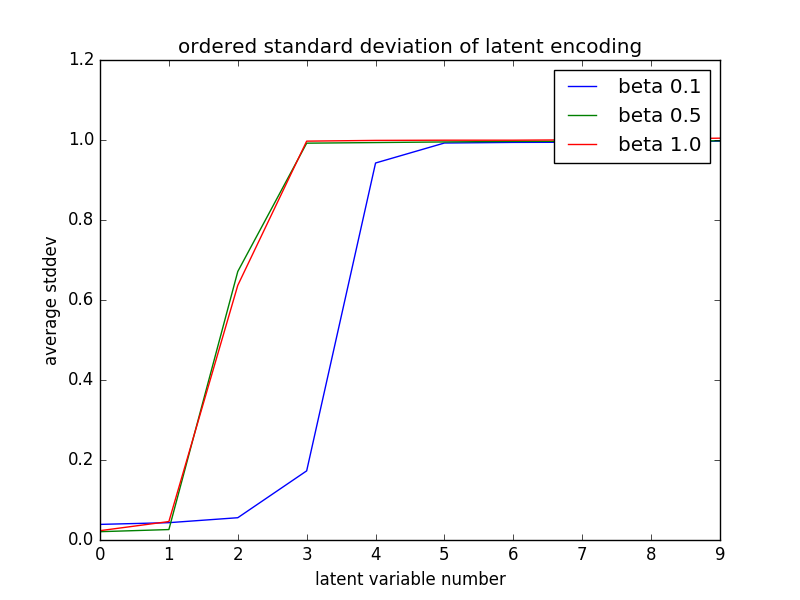
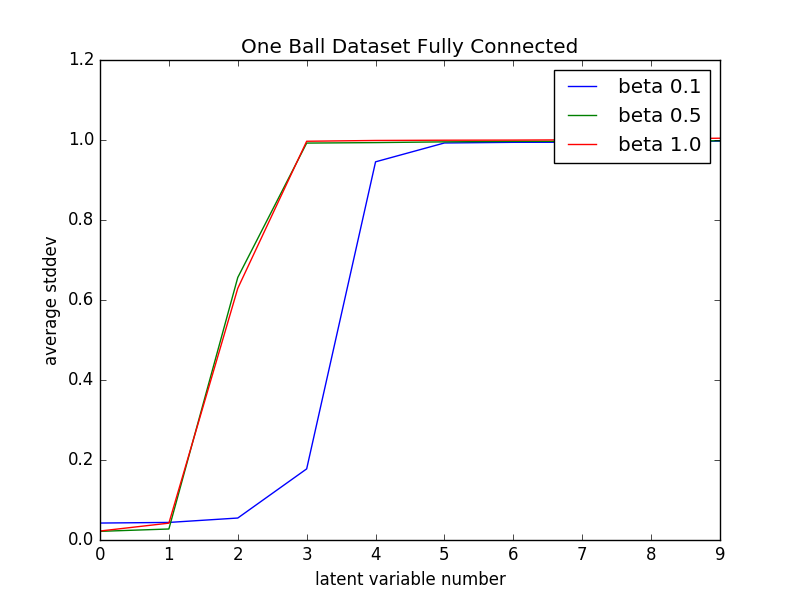
figs better now

diff --git a/create_stddev_graphs.py b/create_stddev_graphs.py
@@ -124,7 +124,6 @@ def main(argv=None):  # pylint: disable=unused-argument
   plt.plot(stddev_model_conv_num_balls_1_beta_one, label="beta 1.0")
   plt.title("One Ball Dataset Conv")
   plt.legend()
-  plt.title("ordered standard deviation of latent encoding")
   plt.xlabel("latent variable number")
   plt.ylabel("average stddev")
   plt.savefig("figures/one_ball_stddev_conv.png")
@@ -135,7 +134,6 @@ def main(argv=None):  # pylint: disable=unused-argument
   plt.plot(stddev_model_conv_num_balls_2_beta_one, label="beta 1.0")
   plt.title("Two Ball Dataset Conv")
   plt.legend()
-  plt.title("ordered standard deviation of latent encoding")
   plt.xlabel("latent variable number")
   plt.ylabel("average stddev")
   plt.savefig("figures/two_ball_stddev_conv.png")
@@ -146,7 +144,6 @@ def main(argv=None):  # pylint: disable=unused-argument
   plt.plot(stddev_model_fully_connected_num_balls_1_beta_one, label="beta 1.0")
   plt.title("One Ball Dataset Fully Connected")
   plt.legend()
-  plt.title("ordered standard deviation of latent encoding")
   plt.xlabel("latent variable number")
   plt.ylabel("average stddev")
   plt.savefig("figures/one_ball_stddev_fully_connected.png")
@@ -157,7 +154,6 @@ def main(argv=None):  # pylint: disable=unused-argument
   plt.plot(stddev_model_fully_connected_num_balls_2_beta_one, label="beta 1.0")
   plt.title("Two Ball Dataset Fully Connected")
   plt.legend()
-  plt.title("ordered standard deviation of latent encoding")
   plt.xlabel("latent variable number")
   plt.ylabel("average stddev")
   plt.savefig("figures/two_ball_stddev_fully_connected.png")
@@ -168,7 +164,6 @@ def main(argv=None):  # pylint: disable=unused-argument
   plt.plot(stddev_model_all_conv_num_balls_1_beta_one, label="beta 1.0")
   plt.title("One Ball Dataset All Conv")
   plt.legend()
-  plt.title("ordered standard deviation of latent encoding")
   plt.xlabel("latent variable number")
   plt.ylabel("average stddev")
   plt.savefig("figures/one_ball_stddev_all_conv.png")
@@ -179,7 +174,6 @@ def main(argv=None):  # pylint: disable=unused-argument
   plt.plot(stddev_model_all_conv_num_balls_2_beta_one, label="beta 1.0")
   plt.title("Two Ball Dataset All Conv")
   plt.legend()
-  plt.title("ordered standard deviation of latent encoding")
   plt.xlabel("latent variable number")
   plt.ylabel("average stddev")
   plt.savefig("figures/two_ball_stddev_all_conv.png")
